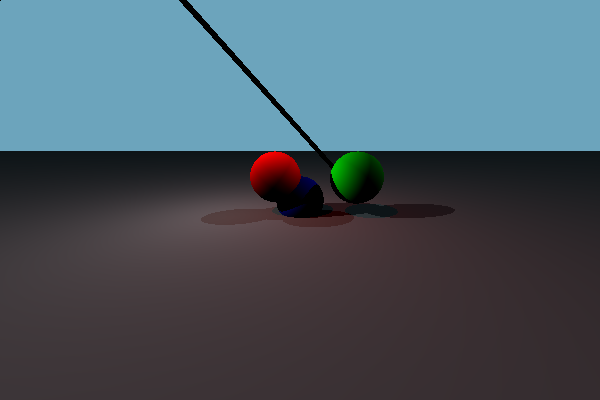
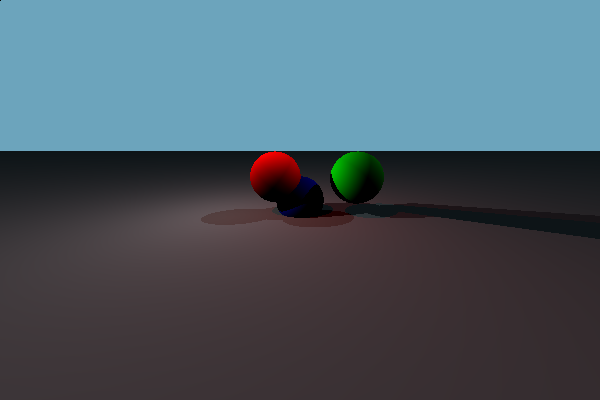
Some new changes

diff --git a/src/components/triangle.rs b/src/components/triangle.rs
@@ -19,9 +19,9 @@ impl Triangle {
     }
     pub fn new_defined() -> Triangle {
         let coord = [
-            Vector3::new(1.0,1.0,-1.0),
-            Vector3::new(1.0,1.3,-1.0),
-            Vector3::new(1.0,1.3,-1.3)
+            Vector3::new(0.0,0.0,0.0),
+            Vector3::new(0.0,1.0,0.0),
+            Vector3::new(3.0,1.0,3.0)
         ];
         Triangle {
             coordinates : coord,
@@ -66,14 +66,13 @@ impl Intersectable for Triangle {
             let inside = {
                 let edge0 = self.coordinates[1] - self.coordinates[0];
                 let edge1 = self.coordinates[2] - self.coordinates[0];
-                let edge2 = self.coordinates[0] - self.coordinates[2];
+                // let edge2 = self.coordinates[0] - self.coordinates[2];
                 let c0 = intersection - self.coordinates[0];
                 let c1 = intersection - self.coordinates[1];
-                let c2 = intersection - self.coordinates[2];
+                // let c2 = intersection - self.coordinates[2];
                 if 
                     self.normal.dot(&(edge0.cross(&c0))) >0.0 &&
-                    self.normal.dot(&(edge1.cross(&c1))) >0.0 &&
-                    self.normal.dot(&(edge2.cross(&c2))) >0.0 {
+                    self.normal.dot(&(edge1.cross(&c1))) >0.0 {
                         true
                     }
                     else {
@@ -84,7 +83,7 @@ impl Intersectable for Triangle {
                 return Some(
                     PointInfo {
                         distance : t,
-                        normal : self.normal,
+                        normal : -self.normal,
                         intersection : intersection
                     }
                 );
